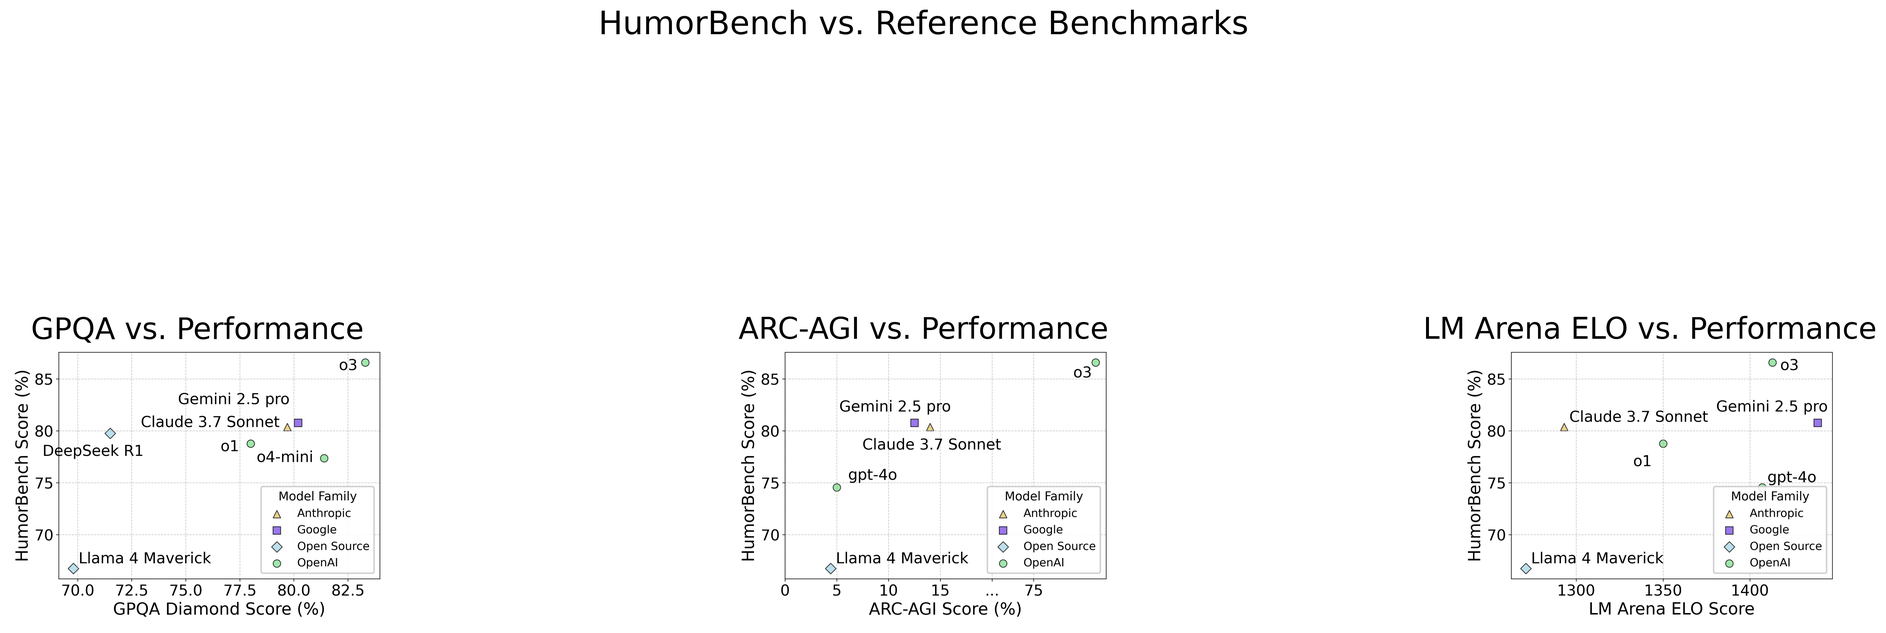
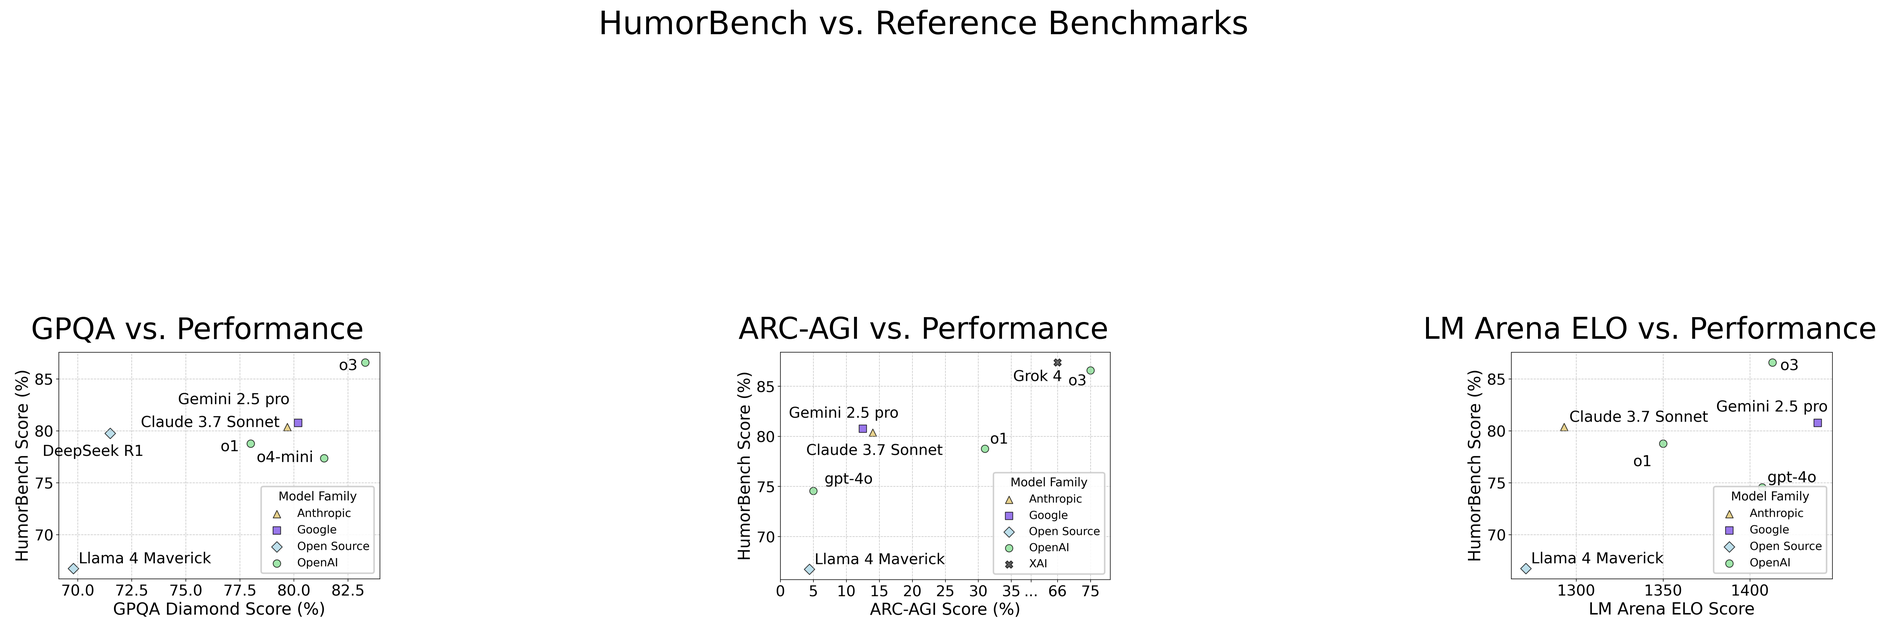
added grok to arc plot

Changed region(s): [[0.3738, 0.7462, 0.5918, 0.9638], [0.3738, 0.5907, 0.5295, 0.7151], [0.5295, 0.5596, 0.5918, 0.6218]]

diff --git a/analysis/runs/full benchmark/index.html b/analysis/runs/full benchmark/index.html
@@ -150,7 +150,7 @@
     <div class="title-container">
         <h1>Humor Bench Results</h1>
         <div class="metadata">
-            Generated: 2025-07-10 19:20:51 | Autograder: gpt-4o
+            Generated: 2025-07-10 19:43:22 | Autograder: gpt-4o
         </div>
     </div>
     <div class="controls">
@@ -200,7 +200,7 @@
 
 <script>
     // Embedded data - injected during HTML generation
-    const reportData = [{"display_name": "Qwen 2.5 72B", "explainer_model": "Qwen-Qwen2-5-72B-Instruct-Turbo", "autograder_model": "gpt-4o", "pass_rate_per_row": 0.6112224448897795, "pass_rate_per_caption_all": 0.49514563106796117, "pass_rate_per_caption_some": 0.605177993527508, "total_cost": 1.1768771, "explainer_cost": 0.1892496, "avg_cost_per_row": 0.002358471142284569, "plot_color": "lightblue", "explainer_family": "open_source", "num_rows": 499, "num_captions": 309, "plot_label": "Qwen 2.5 72B", "gpqa_score": NaN, "arc_agi_score": NaN, "lmarena_elo_score": NaN}, {"display_name": "Llama 4 Maverick", "explainer_model": "meta-llama-Llama-4-Maverick-17B-128E-Instruct-FP8", "autograder_model": "gpt-4o", "pass_rate_per_row": 0.6673346693386774, "pass_rate_per_caption_all": 0.5566343042071198, "pass_rate_per_caption_some": 0.6699029126213594, "total_cost": 1.05301288, "explainer_cost": 0.07122788, "avg_cost_per_row": 0.00211024625250501, "plot_color": "lightblue", "explainer_family": "open_source", "num_rows": 499, "num_captions": 309, "plot_label": "Llama 4 Maverick", "gpqa_score": 0.698, "arc_agi_score": 0.044, "lmarena_elo_score": 1271.0}, {"display_name": "gpt-4o", "explainer_model": "gpt-4o", "autograder_model": "gpt-4o", "pass_rate_per_row": 0.7454909819639278, "pass_rate_per_caption_all": 0.6472491909385113, "pass_rate_per_caption_some": 0.7545846817691478, "total_cost": 2.022075, "explainer_cost": 0.972, "avg_cost_per_row": 0.004052254509018036, "plot_color": "#89e095", "explainer_family": "openai", "num_rows": 499, "num_captions": 309, "plot_label": "gpt-4o", "gpqa_score": NaN, "arc_agi_score": 0.05, "lmarena_elo_score": 1407.0}, {"display_name": "o4-mini", "explainer_model": "o4-mini", "autograder_model": "gpt-4o", "pass_rate_per_row": 0.7735470941883767, "pass_rate_per_caption_all": 0.7022653721682848, "pass_rate_per_caption_some": 0.7912621359223301, "total_cost": 1.940822, "explainer_cost": 0.9388995000000001, "avg_cost_per_row": 0.003889422845691383, "plot_color": "#89e095", "explainer_family": "openai", "num_rows": 499, "num_captions": 309, "plot_label": "o4-mini", "gpqa_score": 0.814, "arc_agi_score": NaN, "lmarena_elo_score": NaN}, {"display_name": "Grok 3", "explainer_model": "grok-3-beta", "autograder_model": "gpt-4o", "pass_rate_per_row": 0.7735470941883767, "pass_rate_per_caption_all": 0.6893203883495146, "pass_rate_per_caption_some": 0.7869471413160731, "total_cost": 2.517861, "explainer_cost": 1.457751, "avg_cost_per_row": 0.0050458136272545084, "plot_color": "#333333", "explainer_family": "XAI", "num_rows": 499, "num_captions": 309, "plot_label": "Grok 3", "gpqa_score": NaN, "arc_agi_score": NaN, "lmarena_elo_score": NaN}, {"display_name": "o1", "explainer_model": "o1", "autograder_model": "gpt-4o", "pass_rate_per_row": 0.7875751503006012, "pass_rate_per_caption_all": 0.7087378640776699, "pass_rate_per_caption_some": 0.7939590075512405, "total_cost": 20.72983, "explainer_cost": 19.717515, "avg_cost_per_row": 0.04154274549098196, "plot_color": "#89e095", "explainer_family": "openai", "num_rows": 499, "num_captions": 309, "plot_label": "o1", "gpqa_score": 0.78, "arc_agi_score": NaN, "lmarena_elo_score": 1350.0}, {"display_name": "Claude Sonnet 4", "explainer_model": "claude-sonnet-4-20250514", "autograder_model": "gpt-4o", "pass_rate_per_row": 0.7935871743486974, "pass_rate_per_caption_all": 0.7216828478964401, "pass_rate_per_caption_some": 0.796116504854369, "total_cost": 2.8726139999999996, "explainer_cost": 1.793949, "avg_cost_per_row": 0.005756741482965931, "plot_color": "#e3c771", "explainer_family": "anthropic", "num_rows": 499, "num_captions": 309, "plot_label": "Claude Sonnet 4", "gpqa_score": NaN, "arc_agi_score": NaN, "lmarena_elo_score": NaN}, {"display_name": "DeepSeek R1", "explainer_model": "deepseek-ai-DeepSeek-R1", "autograder_model": "gpt-4o", "pass_rate_per_row": 0.7975951903807615, "pass_rate_per_caption_all": 0.7087378640776699, "pass_rate_per_caption_some": 0.8042071197411002, "total_cost": 2.6854579999999997, "explainer_cost": 1.651933, "avg_cost_per_row": 0.0053816793587174346, "plot_color": "lightblue", "explainer_family": "open_source", "num_rows": 499, "num_captions": 309, "plot_label": "DeepSeek R1", "gpqa_score": 0.715, "arc_agi_score": NaN, "lmarena_elo_score": NaN}, {"display_name": "Claude 3.7 Sonnet", "explainer_model": "claude-3-7-sonnet-latest", "autograder_model": "gpt-4o", "pass_rate_per_row": 0.8036072144288577, "pass_rate_per_caption_all": 0.7119741100323624, "pass_rate_per_caption_some": 0.8079827400215749, "total_cost": 2.6486275, "explainer_cost": 1.601415, "avg_cost_per_row": 0.005307870741482965, "plot_color": "#e3c771", "explainer_family": "anthropic", "num_rows": 499, "num_captions": 309, "plot_label": "Claude 3.7 Sonnet", "gpqa_score": 0.797, "arc_agi_score": 0.14, "lmarena_elo_score": 1293.0}, {"display_name": "Gemini 2.5 pro", "explainer_model": "gemini-2-5-pro-preview-03-25", "autograder_model": "gpt-4o", "pass_rate_per_row": 0.8076152304609219, "pass_rate_per_caption_all": 0.7216828478964401, "pass_rate_per_caption_some": 0.8058252427184465, "total_cost": 1.7213825, "explainer_cost": 0.714045, "avg_cost_per_row": 0.0034496643286573148, "plot_color": "#8055e6", "explainer_family": "google", "num_rows": 499, "num_captions": 309, "plot_label": "Gemini 2.5 pro", "gpqa_score": 0.802, "arc_agi_score": 0.125, "lmarena_elo_score": 1439.0}, {"display_name": "o3", "explainer_model": "o3", "autograder_model": "gpt-4o", "pass_rate_per_row": 0.8657314629258517, "pass_rate_per_caption_all": 0.8122977346278317, "pass_rate_per_caption_some": 0.8748651564185546, "total_cost": 2.374133, "explainer_cost": 1.334458, "avg_cost_per_row": 0.004757781563126252, "plot_color": "#89e095", "explainer_family": "openai", "num_rows": 499, "num_captions": 309, "plot_label": "o3", "gpqa_score": 0.833, "arc_agi_score": 0.757, "lmarena_elo_score": 1413.0}, {"display_name": "Grok 4", "explainer_model": "grok-4-0709", "autograder_model": "gpt-4o", "pass_rate_per_row": 0.87374749498998, "pass_rate_per_caption_all": 0.8155339805825242, "pass_rate_per_caption_some": 0.8851132686084142, "total_cost": 2.066532, "explainer_cost": 1.0851570000000001, "avg_cost_per_row": 0.004141346693386774, "plot_color": "#333333", "explainer_family": "XAI", "num_rows": 499, "num_captions": 309, "plot_label": "Grok 4", "gpqa_score": NaN, "arc_agi_score": NaN, "lmarena_elo_score": NaN}];
+    const reportData = [{"display_name": "Qwen 2.5 72B", "explainer_model": "Qwen-Qwen2-5-72B-Instruct-Turbo", "autograder_model": "gpt-4o", "pass_rate_per_row": 0.6112224448897795, "pass_rate_per_caption_all": 0.49514563106796117, "pass_rate_per_caption_some": 0.605177993527508, "total_cost": 1.1768771, "explainer_cost": 0.1892496, "avg_cost_per_row": 0.002358471142284569, "plot_color": "lightblue", "explainer_family": "open_source", "num_rows": 499, "num_captions": 309, "plot_label": "Qwen 2.5 72B", "gpqa_score": NaN, "arc_agi_score": NaN, "lmarena_elo_score": NaN}, {"display_name": "Llama 4 Maverick", "explainer_model": "meta-llama-Llama-4-Maverick-17B-128E-Instruct-FP8", "autograder_model": "gpt-4o", "pass_rate_per_row": 0.6673346693386774, "pass_rate_per_caption_all": 0.5566343042071198, "pass_rate_per_caption_some": 0.6699029126213594, "total_cost": 1.05301288, "explainer_cost": 0.07122788, "avg_cost_per_row": 0.00211024625250501, "plot_color": "lightblue", "explainer_family": "open_source", "num_rows": 499, "num_captions": 309, "plot_label": "Llama 4 Maverick", "gpqa_score": 0.698, "arc_agi_score": 0.044, "lmarena_elo_score": 1271.0}, {"display_name": "gpt-4o", "explainer_model": "gpt-4o", "autograder_model": "gpt-4o", "pass_rate_per_row": 0.7454909819639278, "pass_rate_per_caption_all": 0.6472491909385113, "pass_rate_per_caption_some": 0.7545846817691478, "total_cost": 2.022075, "explainer_cost": 0.972, "avg_cost_per_row": 0.004052254509018036, "plot_color": "#89e095", "explainer_family": "openai", "num_rows": 499, "num_captions": 309, "plot_label": "gpt-4o", "gpqa_score": NaN, "arc_agi_score": 0.05, "lmarena_elo_score": 1407.0}, {"display_name": "o4-mini", "explainer_model": "o4-mini", "autograder_model": "gpt-4o", "pass_rate_per_row": 0.7735470941883767, "pass_rate_per_caption_all": 0.7022653721682848, "pass_rate_per_caption_some": 0.7912621359223301, "total_cost": 1.940822, "explainer_cost": 0.9388995000000001, "avg_cost_per_row": 0.003889422845691383, "plot_color": "#89e095", "explainer_family": "openai", "num_rows": 499, "num_captions": 309, "plot_label": "o4-mini", "gpqa_score": 0.814, "arc_agi_score": NaN, "lmarena_elo_score": NaN}, {"display_name": "Grok 3", "explainer_model": "grok-3-beta", "autograder_model": "gpt-4o", "pass_rate_per_row": 0.7735470941883767, "pass_rate_per_caption_all": 0.6893203883495146, "pass_rate_per_caption_some": 0.7869471413160731, "total_cost": 2.517861, "explainer_cost": 1.457751, "avg_cost_per_row": 0.0050458136272545084, "plot_color": "#333333", "explainer_family": "XAI", "num_rows": 499, "num_captions": 309, "plot_label": "Grok 3", "gpqa_score": NaN, "arc_agi_score": NaN, "lmarena_elo_score": NaN}, {"display_name": "o1", "explainer_model": "o1", "autograder_model": "gpt-4o", "pass_rate_per_row": 0.7875751503006012, "pass_rate_per_caption_all": 0.7087378640776699, "pass_rate_per_caption_some": 0.7939590075512405, "total_cost": 20.72983, "explainer_cost": 19.717515, "avg_cost_per_row": 0.04154274549098196, "plot_color": "#89e095", "explainer_family": "openai", "num_rows": 499, "num_captions": 309, "plot_label": "o1", "gpqa_score": 0.78, "arc_agi_score": 0.31, "lmarena_elo_score": 1350.0}, {"display_name": "Claude Sonnet 4", "explainer_model": "claude-sonnet-4-20250514", "autograder_model": "gpt-4o", "pass_rate_per_row": 0.7935871743486974, "pass_rate_per_caption_all": 0.7216828478964401, "pass_rate_per_caption_some": 0.796116504854369, "total_cost": 2.8726139999999996, "explainer_cost": 1.793949, "avg_cost_per_row": 0.005756741482965931, "plot_color": "#e3c771", "explainer_family": "anthropic", "num_rows": 499, "num_captions": 309, "plot_label": "Claude Sonnet 4", "gpqa_score": NaN, "arc_agi_score": NaN, "lmarena_elo_score": NaN}, {"display_name": "DeepSeek R1", "explainer_model": "deepseek-ai-DeepSeek-R1", "autograder_model": "gpt-4o", "pass_rate_per_row": 0.7975951903807615, "pass_rate_per_caption_all": 0.7087378640776699, "pass_rate_per_caption_some": 0.8042071197411002, "total_cost": 2.6854579999999997, "explainer_cost": 1.651933, "avg_cost_per_row": 0.0053816793587174346, "plot_color": "lightblue", "explainer_family": "open_source", "num_rows": 499, "num_captions": 309, "plot_label": "DeepSeek R1", "gpqa_score": 0.715, "arc_agi_score": NaN, "lmarena_elo_score": NaN}, {"display_name": "Claude 3.7 Sonnet", "explainer_model": "claude-3-7-sonnet-latest", "autograder_model": "gpt-4o", "pass_rate_per_row": 0.8036072144288577, "pass_rate_per_caption_all": 0.7119741100323624, "pass_rate_per_caption_some": 0.8079827400215749, "total_cost": 2.6486275, "explainer_cost": 1.601415, "avg_cost_per_row": 0.005307870741482965, "plot_color": "#e3c771", "explainer_family": "anthropic", "num_rows": 499, "num_captions": 309, "plot_label": "Claude 3.7 Sonnet", "gpqa_score": 0.797, "arc_agi_score": 0.14, "lmarena_elo_score": 1293.0}, {"display_name": "Gemini 2.5 pro", "explainer_model": "gemini-2-5-pro-preview-03-25", "autograder_model": "gpt-4o", "pass_rate_per_row": 0.8076152304609219, "pass_rate_per_caption_all": 0.7216828478964401, "pass_rate_per_caption_some": 0.8058252427184465, "total_cost": 1.7213825, "explainer_cost": 0.714045, "avg_cost_per_row": 0.0034496643286573148, "plot_color": "#8055e6", "explainer_family": "google", "num_rows": 499, "num_captions": 309, "plot_label": "Gemini 2.5 pro", "gpqa_score": 0.802, "arc_agi_score": 0.125, "lmarena_elo_score": 1439.0}, {"display_name": "o3", "explainer_model": "o3", "autograder_model": "gpt-4o", "pass_rate_per_row": 0.8657314629258517, "pass_rate_per_caption_all": 0.8122977346278317, "pass_rate_per_caption_some": 0.8748651564185546, "total_cost": 2.374133, "explainer_cost": 1.334458, "avg_cost_per_row": 0.004757781563126252, "plot_color": "#89e095", "explainer_family": "openai", "num_rows": 499, "num_captions": 309, "plot_label": "o3", "gpqa_score": 0.833, "arc_agi_score": 0.757, "lmarena_elo_score": 1413.0}, {"display_name": "Grok 4", "explainer_model": "grok-4-0709", "autograder_model": "gpt-4o", "pass_rate_per_row": 0.87374749498998, "pass_rate_per_caption_all": 0.8155339805825242, "pass_rate_per_caption_some": 0.8851132686084142, "total_cost": 2.066532, "explainer_cost": 1.0851570000000001, "avg_cost_per_row": 0.004141346693386774, "plot_color": "#333333", "explainer_family": "XAI", "num_rows": 499, "num_captions": 309, "plot_label": "Grok 4", "gpqa_score": NaN, "arc_agi_score": 0.66, "lmarena_elo_score": NaN}];
 
     // Wait for the DOM to be fully loaded
     document.addEventListener('DOMContentLoaded', function() {

diff --git a/reports/main_benchmark_results.py b/reports/main_benchmark_results.py
@@ -831,7 +831,7 @@ def generate_benchmark_data(run_files, prices_path, paper_plots=False):
         print("GPQA scores will not be available in the report")
 
     # --- Load ARC-AGI scores ---
-    arc_agi_file_path = "../model_data/models_ARC_AGI.json"
+    arc_agi_file_path = "../model_data/models_ARC_AGI_with_o.json"
     try:
         with open(arc_agi_file_path, 'r') as f:
             arc_agi_data = json.load(f)
@@ -1230,7 +1230,8 @@ def generate_static_scatter_plots(run_output_dir, data_json_path):
         "Gemini 2.5 pro": (-100, 15),
         "Claude 3.7 Sonnet": (-90, -30),
         "o3": (-30, -20),
-        "o3-mini": (10, -15)  # Add specific offset for o3-mini
+        "o3-mini": (10, -15),  # Add specific offset for o3-mini
+        "Grok 4": (-60, -25)  # Add offset for Grok 4
     }
     
     # Placeholder offsets for LM Arena ELO plot
@@ -1315,71 +1316,66 @@ def generate_static_scatter_plots(run_output_dir, data_json_path):
                     # Create a single figure for a simpler broken axis approach
                     fig, ax = plt.subplots(figsize=(10, 8))
                     
-                    # Identify high outlier model (o3)
-                    o3_data = plot_df[plot_df['display_name'] == 'o3']
-                    regular_data = plot_df[plot_df['display_name'] != 'o3']
+                    # Identify high-scoring models (ARC-AGI score > 60%) that should go on the right side
+                    threshold = 0.60  # 60% threshold
+                    high_scoring_data = plot_df[plot_df[x_option["field"]] > threshold]
+                    regular_data = plot_df[plot_df[x_option["field"]] <= threshold]
                     
                     # Get the offset dictionary for this x-axis
                     current_offsets = axis_to_offsets.get(x_option["field"], {})
                     
-                    # Plot all models including o3 (will adjust x-ticks later)
-                    for family, group in plot_df.groupby('explainer_family'):
+                    # Plot regular models (ARC-AGI score <= 60%)
+                    for family, group in regular_data.groupby('explainer_family'):
                         marker = family_markers.get(family, 'o')
                         color = FAMILY_COLORS.get(family, 'gray')
                         marker_size = family_marker_sizes.get(family, 180)
                         line_width = family_marker_linewidths.get(family, 2)
                         
-                        # For o3, we'll plot at a special position
-                        if family == 'openai' and 'o3' in group['display_name'].values:
-                            # Split into o3 and non-o3 points
-                            o3_points = group[group['display_name'] == 'o3']
-                            non_o3_points = group[group['display_name'] != 'o3']
-                            
-                            # Plot non-o3 points as normal
-                            if not non_o3_points.empty:
-                                ax.scatter(
-                                    non_o3_points[x_option["field"]] * 100,  # Convert to percentage
-                                    non_o3_points[y_option["field"]] * 100,  # Convert to percentage
-                                    marker=marker,
-                                    s=marker_size,
-                                    color=color,
-                                    edgecolors='black',
-                                    linewidths=line_width,
-                                    alpha=0.8,
-                                    label=family if family == 'XAI' else 'OpenAI' if family == 'openai' else family.replace('_', ' ').title()
-                                )
-                            
-                            # Plot o3 at a special x position (30)
-                            if not o3_points.empty:
-                                # If this is the first OpenAI point, add the label
-                                label = None if not non_o3_points.empty else ('OpenAI' if family == 'openai' else family.replace('_', ' ').title())
-                                
-                                ax.scatter(
-                                    30,  # Fixed position for o3
-                                    o3_points[y_option["field"]].iloc[0] * 100,  # y-value as percentage
-                                    marker=marker,
-                                    s=marker_size,
-                                    color=color,
-                                    edgecolors='black',
-                                    linewidths=line_width,
-                                    alpha=0.8,
-                                    label=label
-                                )
-                        else:
-                            # Plot normal points for other families
-                            ax.scatter(
-                                group[x_option["field"]] * 100,  # Convert to percentage
-                                group[y_option["field"]] * 100,  # Convert to percentage
-                                marker=marker,
-                                s=marker_size,
-                                color=color,
-                                edgecolors='black',
-                                linewidths=line_width,
-                                alpha=0.8,
-                                label=family if family == 'XAI' else 'OpenAI' if family == 'openai' else family.replace('_', ' ').title()
-                            )
+                        ax.scatter(
+                            group[x_option["field"]] * 100,  # Convert to percentage
+                            group[y_option["field"]] * 100,  # Convert to percentage
+                            marker=marker,
+                            s=marker_size,
+                            color=color,
+                            edgecolors='black',
+                            linewidths=line_width,
+                            alpha=0.8,
+                            label=family if family == 'XAI' else 'OpenAI' if family == 'openai' else family.replace('_', ' ').title()
+                        )
                     
-                    # Add model name annotations
+                    # Plot high-scoring models on the right side of the break
+                    special_x_positions = [42, 47]  # Positions for high-scoring models (sorted by ARC-AGI score)
+                    # Sort high scoring data by ARC-AGI score to match label order
+                    high_scoring_sorted = high_scoring_data.sort_values(x_option["field"])
+                    for i, (_, row) in enumerate(high_scoring_sorted.iterrows()):
+                        family = row['explainer_family']
+                        marker = family_markers.get(family, 'o')
+                        color = FAMILY_COLORS.get(family, 'gray')
+                        marker_size = family_marker_sizes.get(family, 180)
+                        line_width = family_marker_linewidths.get(family, 2)
+                        
+                        # Use a different x position for each high-scoring model
+                        x_pos = special_x_positions[i % len(special_x_positions)]
+                        
+                        # Check if we need to add family label 
+                        family_label = family if family == 'XAI' else 'OpenAI' if family == 'openai' else family.replace('_', ' ').title()
+                        # For simplicity, only label the first high-scoring model in each family
+                        is_first_in_family = i == 0 or high_scoring_sorted.iloc[i-1]['explainer_family'] != family
+                        label = family_label if is_first_in_family else None
+                        
+                        ax.scatter(
+                            x_pos,
+                            row[y_option["field"]] * 100,  # y-value as percentage
+                            marker=marker,
+                            s=marker_size,
+                            color=color,
+                            edgecolors='black',
+                            linewidths=line_width,
+                            alpha=0.8,
+                            label=label
+                        )
+                    
+                    # Add model name annotations for regular models
                     for _, row in regular_data.iterrows():
                         x_val = row[x_option["field"]] * 100  # Convert to percentage
                         y_val = row[y_option["field"]] * 100  # Convert to percentage
@@ -1397,45 +1393,51 @@ def generate_static_scatter_plots(run_output_dir, data_json_path):
                             fontsize=20,
                         )
                     
-                    # Add o3 label separately
-                    if not o3_data.empty:
-                        y_val = o3_data[y_option["field"]].iloc[0] * 100
-                        offset_x, offset_y = 7, 7
-                        if 'o3' in current_offsets:
-                            offset_x, offset_y = current_offsets['o3']
+                    # Add annotations for high-scoring models
+                    special_x_positions = [42, 47]  # Same positions as above
+                    # Use the same sorted order as plotting and labels
+                    for i, (_, row) in enumerate(high_scoring_sorted.iterrows()):
+                        model_name = row['display_name']
+                        x_pos = special_x_positions[i % len(special_x_positions)]
+                        y_val = row[y_option["field"]] * 100
+                        
+                        offset_x, offset_y = 7, 7  # Default offset
+                        if model_name in current_offsets:
+                            offset_x, offset_y = current_offsets[model_name]
                         
                         ax.annotate(
-                            'o3',
-                            xy=(30, y_val),
+                            model_name,
+                            xy=(x_pos, y_val),
                             xytext=(offset_x, offset_y),
                             textcoords='offset points',
                             fontsize=20,
                         )
                     
-                    # Set axis limits
-                    ax.set_xlim(0, 31)
+                    # Set axis limits to accommodate both regular and special positions
+                    ax.set_xlim(0, 50)
                     
-                    # Set custom x-ticks with an ellipsis to show the break
-                    xticks = list(range(0, 16, 5)) + [24]  # Moved o3 placeholder closer (from 30 to 24)
-                    ax.set_xticks(xticks)
+                    # Set up clean x-ticks: regular scale from 0-35%, then ellipsis, then high scores
+                    regular_ticks = list(range(0, 36, 5))  # [0, 5, 10, 15, 20, 25, 30, 35]
+                    ellipsis_pos = 38
+                    high_score_ticks = [42, 47]  # Positions for high-scoring models (Grok 4, o3) - more spread out
                     
-                    # Create custom labels with ellipsis properly aligned
-                    xlabels = [str(x) for x in xticks[:-1]] + ['75']
+                    all_ticks = regular_ticks + [ellipsis_pos] + high_score_ticks
+                    ax.set_xticks(all_ticks)
                     
-                    # Add the ellipsis as part of the x-axis label
-                    # Position it halfway between the plot area and the next tick
-                    ax.set_xticklabels(xlabels)
+                    # Create corresponding labels
+                    regular_labels = [str(x) for x in regular_ticks]
                     
-                    # Add ellipsis as a tick - position it closer to the regular points
-                    ellipsis_pos = xticks[-2] + 5  # Just 5 units after the last regular tick (15)
-                    ax.set_xticks(list(ax.get_xticks()) + [ellipsis_pos])  # Add the ellipsis position
+                    # Create dynamic labels based on actual model scores (sorted by ARC-AGI score)
+                    high_score_labels = []
+                    if not high_scoring_data.empty:
+                        # Sort high scoring data by ARC-AGI score to ensure correct order
+                        high_scoring_sorted = high_scoring_data.sort_values(x_option["field"])
+                        for _, row in high_scoring_sorted.iterrows():
+                            score_pct = int(row[x_option["field"]] * 100)  # Convert to integer percentage
+                            high_score_labels.append(str(score_pct))
                     
-                    # Get the tick labels, and replace the ellipsis position with "..."
-                    labels = [item.get_text() for item in ax.get_xticklabels()]
-                    labels[-1] = "..."  # Replace the last added tick (the ellipsis position)
-                    
-                    # Apply the updated labels
-                    ax.set_xticklabels(labels)
+                    all_labels = regular_labels + ["..."] + high_score_labels
+                    ax.set_xticklabels(all_labels)
                     
                     # Add grid for readability
                     ax.grid(True, linestyle='--', alpha=0.7)
